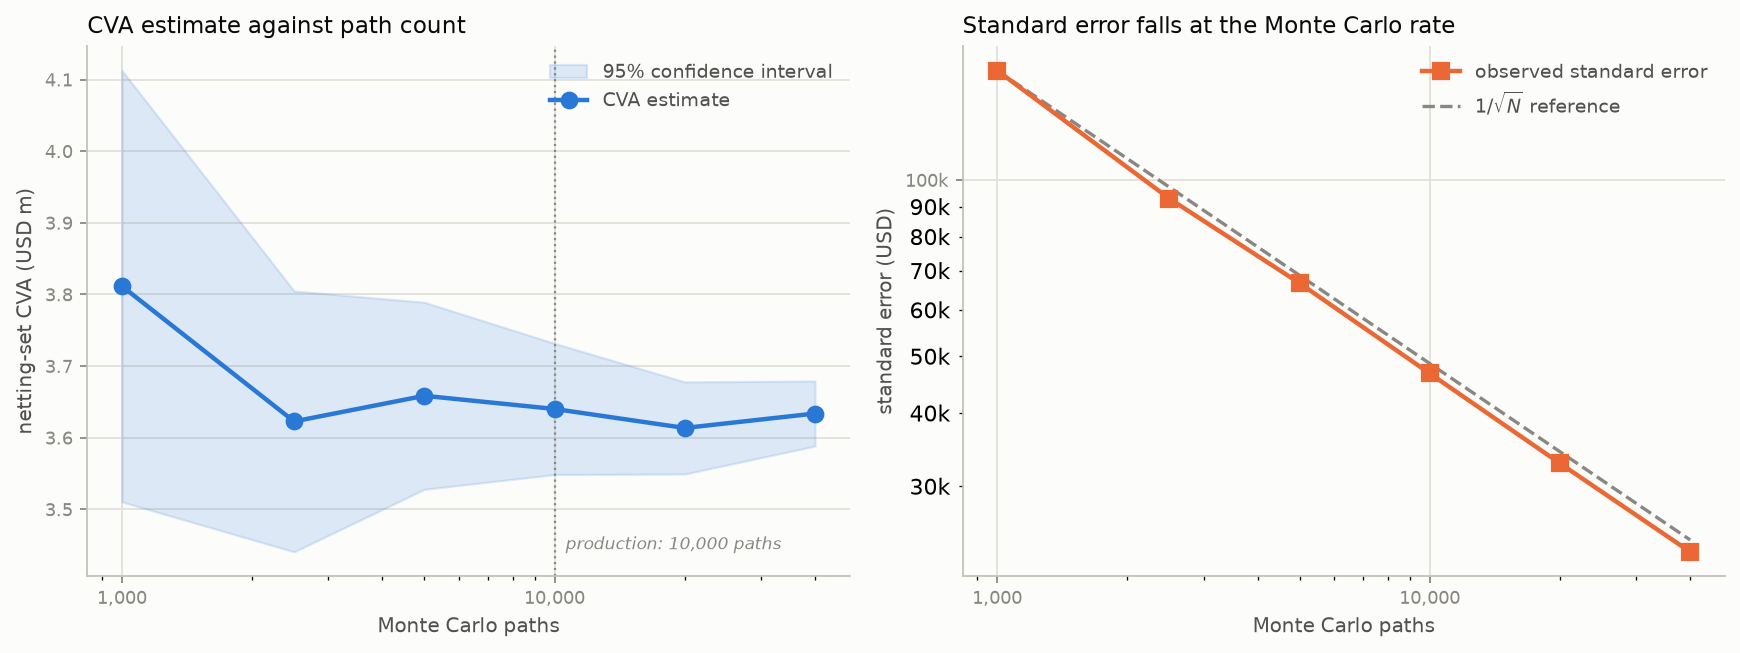
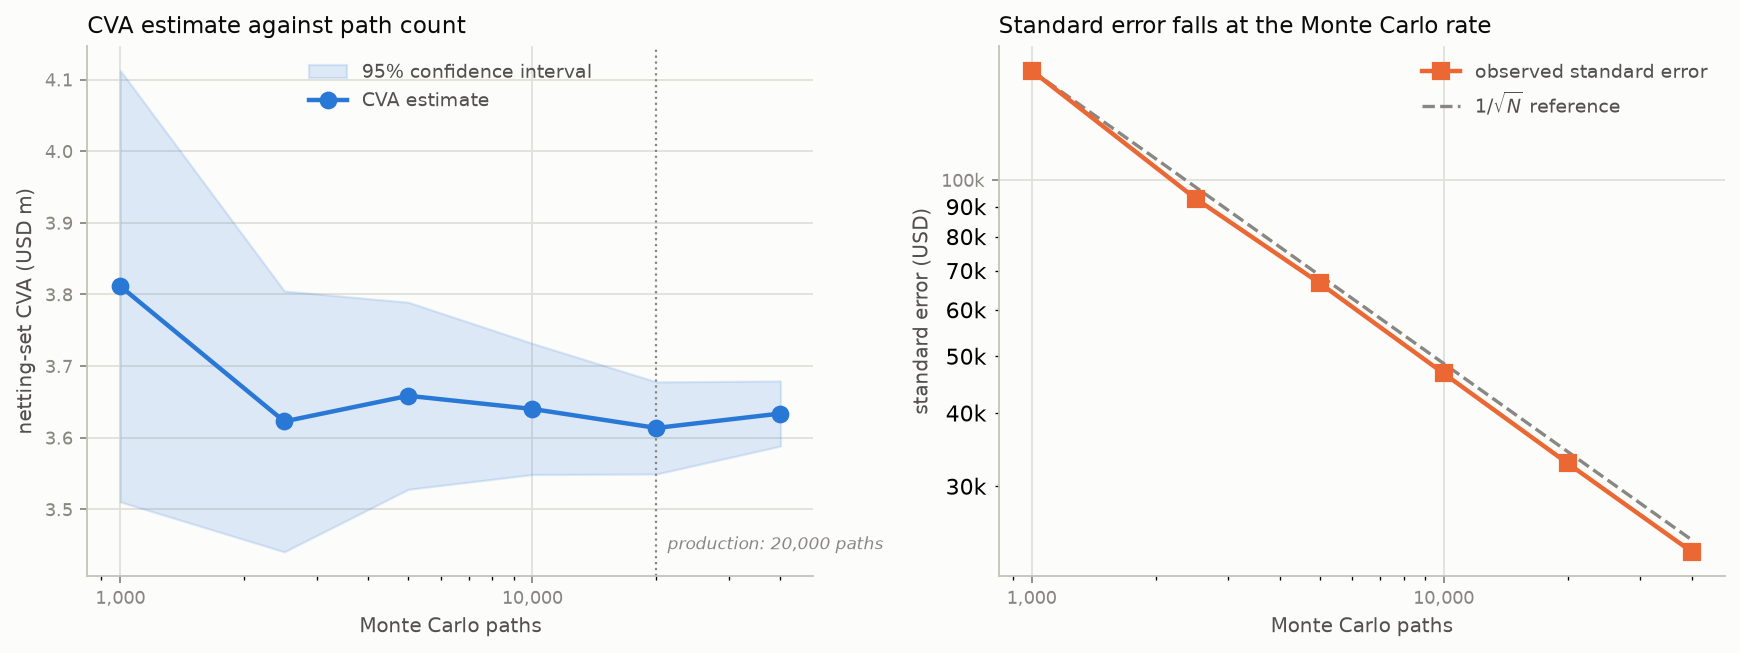
Raise production path count to 20,000
Regenerates all results and figures at N_PATHS = 20,000 (up from
10,000), which is the count the thesis reports against. Validation
still passes 30/30.

At this path count, stochastic (3-factor) model, production grid:
full re-simulation 373 ms, linear proxy 113 ms (3.6x), Chebyshev proxy
417 ms (0.94x, now slightly slower than full re-simulation).

Claude-Session: https://claude.ai/code/session_016fnSk1ij7tSuco7Q7Eejut

diff --git a/cva/config.py b/cva/config.py
@@ -22,9 +22,10 @@ import numpy as np
 
 # ---------------------------------------------------------------- simulation
 SEED = 42
-N_PATHS = 10_000        # [CHOICE] down from the single-factor model's 20,000:
-                        # three factors and an n^3 grid cost more.  MC standard
-                        # errors are reported so the noise is quantified.
+N_PATHS = 20_000        # [CHOICE] three factors and an n^3 grid cost more than
+                        # the single-factor model, but this is the path count
+                        # the thesis reports against.  MC standard errors are
+                        # reported so the noise is quantified.
 N_TIMING_REPEATS = 3    # each pricing request is timed this often; keep the minimum
 
 
